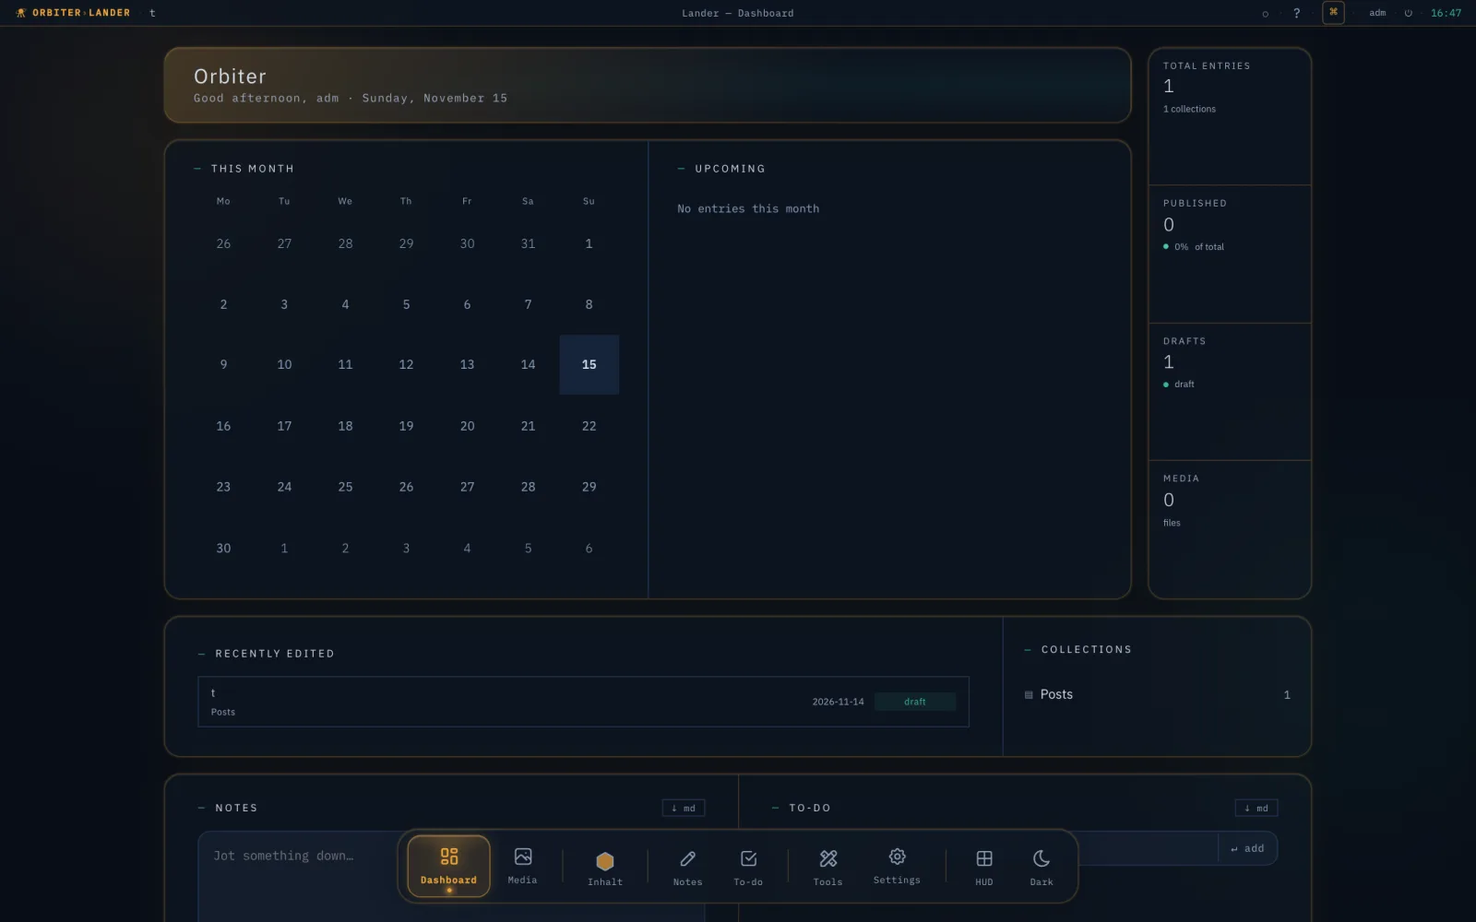
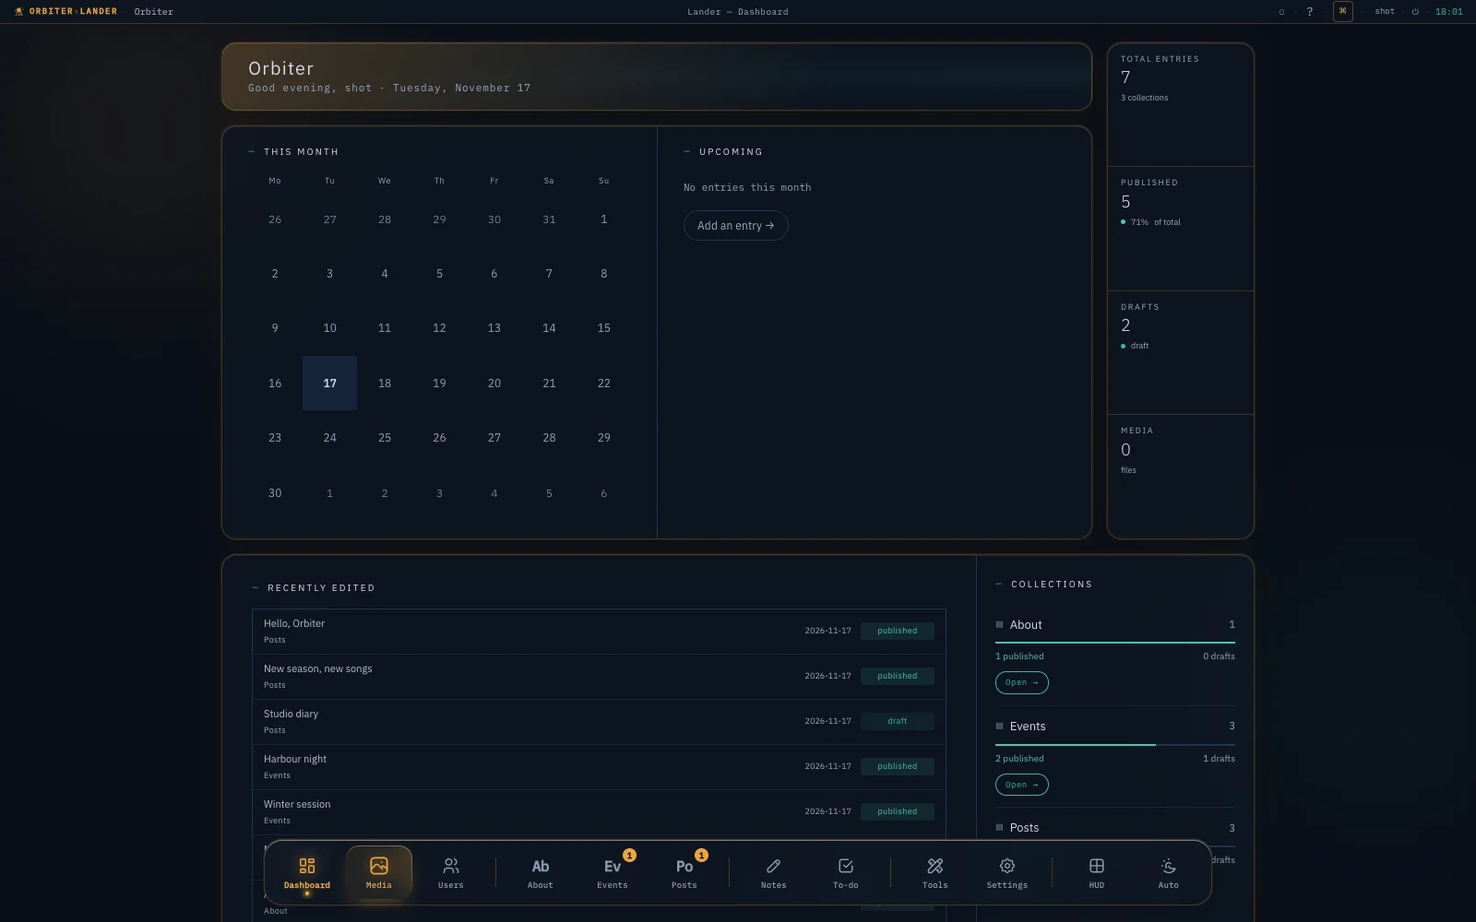
docs: README changelog mirrors orbiter.sh from admin 0.3.81, new Lander screenshot

diff --git a/README.md b/README.md
@@ -1289,6 +1289,200 @@ The admin ships with **English** and **German**. To add a locale, add translatio
 
 ## Changelog
 
+> The full, current changelog lives on **[orbiter.sh/changelog](https://orbiter.sh/changelog)**. Entries from admin 0.3.81 on are mirrored here.
+
+### Nov 2026 · admin@0.3.110 · lander@0.7.4 — Admin on phones and tablets, and a faster dock
+
+- **Dock labels and drawers** — on touch devices every dock item shows its name. A drawer opens as a floating glass panel above the dock (like Notes and To-do) with a close button; tapping outside closes it.
+- **Lists on a phone** — one main action per row plus a “⋯” menu (edit, duplicate, trash). Swipe left for the menu, swipe right to publish or unpublish (asks first). Slug and repeated names stay out of the card; filter chips scroll in one line.
+- **Editor** — the floating save button no longer covers the last field, the toolbar fades out where it scrolls, a pulsing dot shows unsaved changes, and *Preview* opens the site in a sheet.
+- **Touch targets** — buttons, chips, fields and calendar days are at least 40–44 px high on touch screens; forms use a calmer sans-serif instead of monospace.
+- **Draft badges** — the dock shows how many drafts a collection or drawer holds. Empty lists get a call to action, loading lists a shimmer.
+- **Lander** — the admin is German by default (switch under Settings → Admin language). Update with one click in Settings → Pod.
+
+### Nov 2026 · admin@0.3.110 · lander@0.7.3 — A dock that glides, and pages that open without a reload
+
+- **Sliding pill** — one glass pill follows the item under the cursor with a spotlight, and rests behind the active item with a slow aurora ring. It stays on a drawer while you reach into it, and returns only after a short grace period.
+- **Pages swap in place** — dock and status bar stay put, the old page stays until the new one is ready (thin progress bar), pages are prefetched on hover or touch and cached for five minutes. Editor, calendar, users and a few others still reload fully.
+- **Soft transitions** — a quick fade with a hint of blur and lift; full page loads use the browser’s view transitions where available. Off for “reduce motion”.
+- **Instant dock** — the dock is drawn from the last `/api/info` answer on the first frame and rebuilt only if something changed. The cache is cleared on sign-out.
+- **Versioned assets** — scripts and styles carry `?v=…` and may stay in the browser cache for a year; the version changes with every file change. Lander needs `mod_headers` and `mod_rewrite` for the long cache (it still works without).
+- **Recently visited** — the command palette (⌘K) lists the last pages you opened. Kept in this browser only.
+- **Security** — the page cache expires and notices a lost session instead of showing an empty page.
+
+### Nov 2026 · lander@0.7.0 — Lander for artists: music, video, preview, quick-create
+
+- **Audio and video uploads** — MP3, M4A, AAC, OGG, WAV, FLAC, MP4, WebM and MOV, served with range requests so Safari can play and seek. The upload limit is 40 MB for new installs.
+- **Preview** — a *Preview* button opens the real website page for an entry, drafts included while you are signed in (Settings meta `site.preview` and `site.url`).
+- **Quick-create** — the “new entry” dialog asks for the list columns (title, band, date, place) and can publish right away. **Copy with a new date** duplicates an entry and renames its slug.
+- **Relations** — a relation field can be single-choice (`multiple: false`), shown as a dropdown; list columns show the related title.
+- **Editor role** — editors see a short dock (no schema, users, build, import) and the server refuses those actions with 403. Plain-language save errors replace “Error”.
+- **Installable** — web-app manifest and icons, iOS meta tags and safe areas, so the admin can live on the home screen.
+
+### Nov 2026 · lander@0.6.1 — Lander: the dock copes with many collections
+
+- **"More" drawer** — with more than six ungrouped collections the extra ones move into a drawer instead of stretching the dock.
+- **Short dock names** — long titles are shortened to their first part (no more "…"); the full name stays in the tooltip.
+- **Never wider than the screen** — long drawers scroll. Group collections by topic in Settings → Navigation. Update with one click in Settings → Pod.
+
+### Nov 2026 · lander@0.6.0 — Lander: strict Content-Security-Policy for the admin
+
+- **Nonce on every script** — the admin pages are served through PHP with a one-time nonce and a strict policy. An injected `<script>` or `onerror=` handler cannot run, the same protection Orbiter got in 0.3.98.
+- **No inline handlers** — all 81 `onclick`-style handlers moved to `data-on-click`. Behaviour is unchanged. Works at the domain root and in a subfolder, in English and German.
+- **Earlier today (0.5.6):** the pod and its backups are written owner-only (600). If a page looks odd after updating, hard-reload once. [Docs →](https://orbiter.sh/docs/lander)
+
+### Nov 2026 · desktop@0.2.3 — Desktop app: no more admin / admin
+
+- **Random start password** — a new pod no longer gets `admin / admin`. The app creates a random password and shows it once after creating the pod.
+- **Loopback address** — the app talks to `127.0.0.1` instead of `localhost` (you sign in once again after the update, the address is a new site for the browser cookie).
+- **No browser permissions** — camera, microphone, location and notification requests are always denied.
+- Includes the current admin: enforced Content-Security-Policy, German interface, signed backups and Digi-ID sign-in. The macOS app is still unsigned (open it with right-click → Open).
+
+### Nov 2026 · admin@0.3.105 · lander@0.5.6 — Security: backups are owner-only
+
+- **Automatic backups were world-readable.** Since 0.3.96 (Orbiter) the automatic backup landed in a `backups/` folder next to the pod with default permissions (644). If that folder lies inside a directory the web server serves, the backup (password hashes, saved settings) could be downloaded by anyone who guessed the file name. Backups are now written with mode 600 in a 700 folder.
+- **What to do:** update, then check that `https://your-host/backups/` and old `*.pod` files are not reachable, and delete old backups from a served folder. If one was exposed, change the user passwords and any SMTP, API or FTP secrets stored in the pod. Set `ORBITER_BACKUP_DIR` to a folder outside the web root for good measure.
+- **Lander** also writes the pod and its backups owner-only (600), so a host that ignores `data/.htaccess` does not expose them. Lander's `data/.htaccess` already blocked the folder on Apache.
+
+### Nov 2026 · admin@0.3.103 · lander@0.5.5 — Autosave for every field
+
+- The editor already saved the title and the text two seconds after typing. Now **all other fields** (text fields, dates, switches, dropdowns) autosave the same way, so a notice or a short entry no longer needs a manual save.
+- Autosave keeps the entry's current status: a *published* entry goes live with the change (after the short public cache), a draft stays a draft.
+
+### Nov 2026 · admin@0.3.102 · lander@0.5.4 — Dock: shorter German labels and your own order
+
+- **Shorter dock labels** in German (Start, Nutzer, To-dos, Setup, Auto …), so the dock fits more items.
+- **Own order for collections** — the setting `nav.order` (a list of collection IDs) decides the order in the dock and the sidebar; collections not listed follow after. Set it with `PUT /api/meta` or in the pod.
+
+### Nov 2026 · admin@0.3.101 · lander@0.5.1 — Fix: Account page (2FA, Digi-ID) did nothing after in-app navigation
+
+- Opening **Account** through the dock or sidebar swapped the page in place, so its scripts did not run: the 2FA card stayed on “Loading…” and “Link an address” did nothing until a hard refresh. The page now loads normally.
+
+### Nov 2026 · lander@0.5.0 · admin@0.3.100 — Digi-ID sign-in in Lander
+
+- **Digi-ID for Lander** — link a DigiByte address under Account, then scan the QR code on the login page. Same contract as Orbiter 0.3.99. Needs PHP `gmp` or `bcmath` (the signature check is done in PHP, no extra library to install).
+- **Fix (admin 0.3.100, Lander)** — the sign-in request now sends a JSON body: some hosts and proxies answer a body-less POST with 403. [Docs →](https://orbiter.sh/docs/lander)
+
+### Nov 2026 · admin@0.3.100 — Sign in with Digi-ID (DigiByte wallet)
+
+- **Passwordless sign-in** — link a DigiByte address under Account → Digi-ID, then scan the QR code on the login page with a Digi-ID wallet. The password login stays.
+- **Bound to your domain** — the wallet signs a one-time URI that contains the site address; challenges expire after five minutes and work once. Linking or removing an address needs the password. [Docs →](https://orbiter.sh/docs/security)
+- Needs a public HTTPS address (not `localhost` or the desktop app). Legacy `D…` addresses.
+
+### Nov 2026 · lander@0.4.0 — Lander: webhooks and build trigger
+
+- **Rebuild on publish** — a build webhook (Settings → Build) is called whenever an entry is published, so a static Astro site on Netlify, Vercel or GitHub Actions rebuilds itself.
+- **Signed webhooks** — publish and delete events with an HMAC-SHA256 signature, a log of the last 50 deliveries and a test button. Same contract as Orbiter. [Docs →](https://orbiter.sh/docs/lander)
+
+### Nov 2026 · lander@0.3.3 — Lander: two-factor sign-in (TOTP)
+
+- **2FA for Lander** — Settings → Security. Works with Google Authenticator, 1Password and Aegis; eight one-time recovery codes; a code cannot be replayed; wrong codes are throttled per account.
+- Same format as Orbiter, so an Orbiter pod with 2FA users can move to Lander (before, Lander refused to sign these accounts in). Install it with **Update now**.
+
+### Nov 2026 · admin@0.3.98 — Security: strict Content-Security-Policy enforced
+
+- **Scripts need a nonce** — the admin now blocks every script that is not part of its own pages. An injected `<script>` or `onerror=` handler in content cannot run, even if it slipped past escaping.
+- **No inline handlers** — all 95 `onclick="…"` style handlers are replaced by `data-on-click` attributes handled by a small dispatcher (no `eval`). Behaviour is unchanged.
+- Custom admin pages that still use inline handlers: switch to `data-on-…`, or set `ORBITER_CSP=report` to go back to report-only. [Docs →](https://orbiter.sh/docs/security)
+
+### Nov 2026 · admin@0.3.97 · lander@0.3.2 — German admin interface
+
+- **Admin language DE** — Settings → General → Admin language now switches the whole interface to German: navigation, dashboard, entries, editor, media, users, settings, import and analytics (about 600 labels and hints). Anything not translated yet stays English.
+- The choice is kept per browser. The strings live in `i18n-de.js`; your own content, the editor text and form fields are never touched. More languages can be added the same way.
+- Lander 0.3.2 gets the same German interface. It is the first release installed with the signed one-click update.
+
+### Nov 2026 · lander@0.3.1 — Lander: signed one-click update
+
+- **Update now** — the Lander admin installs a newer release with one click, from the dashboard hint or Settings → Pod.
+- **Signed releases** — every release ZIP carries an Ed25519 signature that Lander checks before it writes a file. A tampered download is refused and nothing changes.
+- **Rollback copy** — the pod and the current code are saved to `data/update-rollback/` first. Config, `data/`, media and the subfolder paths stay as they are.
+- Needs the PHP `zip` and `sodium` extensions; otherwise the admin says why and you replace the files by hand. `update_check => false` switches it off. [Docs →](https://orbiter.sh/docs/lander)
+
+### Nov 2026 · lander@0.3.0 — Lander 0.3: users, installer, subfolders, backups, image sizes
+
+- **Installer** — open `install.php` once; it detects a subfolder or domain root, writes the config, creates the first admin and deletes itself.
+- **Subfolder or subdomain** — `example.at/lander/` works as well as `redaktion.example.at`.
+- **Users** — admins add editors and admins, reset passwords and delete accounts.
+- **Backup and restore** — weekly automatic backups, SQL file or ZIP with media, restore with validation.
+- **Image sizes** — `?w`, `?ar` and `?fmt` variants with a cache; public `/api/public/media/<id>`.
+- **Inbox** visible in the menu, a short public cache (10 s by default) and an update hint. [Lander →](https://orbiter.sh/lander)
+
+### Nov 2026 · admin@0.3.96 · core@0.3.22 — Automatic backups, pod size watch, media out of the pod, stronger password hashing
+
+- **Automatic backups** — the pod is copied to a `backups/` folder every 7 days (keeps four), plus *Back up now*. Configurable with `ORBITER_BACKUP_DAYS`, `_KEEP`, `_DIR`. [Docs →](https://orbiter.sh/docs/backup)
+- **Pod size watch** — Settings → Pod shows the file size and the media inside it; the dashboard warns above `ORBITER_POD_WARN_MB` (default 60) or when no backup exists.
+- **Move media out of the pod** — with a media backend set (local folder, S3, GitHub), one button moves the files out and shrinks the pod. A file that fails stays where it is.
+- **Stronger password hashing** — scrypt with a higher cost, stored with the hash; old hashes keep working and are upgraded at the next sign-in. [Docs →](https://orbiter.sh/docs/security)
+
+### Nov 2026 · admin@0.3.95 — Backup and restore from Settings
+
+- **Download a backup** — Settings → Pod → *Download SQL file* gives you a consistent copy of the live pod (no sessions), and shows the current file size. [Docs →](https://orbiter.sh/docs/backup)
+- **Restore or move** — upload a `.pod`: it is checked first (SQLite, integrity, required tables, at least one admin), the current pod is kept as `<pod>.before-restore-…`, then swapped in. Works for moving to another server, and for pods from [Lander](https://orbiter.sh/lander).
+
+### Nov 2026 · admin@0.3.94 · integration@0.3.23 · mcp@0.1.6 — Lander for PHP hosting, security hardening, 10 themes and a tidier Settings page
+
+- **Lander** — the Orbiter admin on ordinary PHP hosting (PHP 8.1+, SQLite, no Node). Same SQL file (`.pod`), same Station interface, live read API for your site. [Lander →](https://orbiter.sh/lander) [Docs →](https://orbiter.sh/docs/lander)
+- **Security hardening** — user-supplied values are now escaped everywhere in the admin UI (closes stored-XSS paths), meta writes are limited to admins and size-capped, slugs and usernames are validated server-side, request bodies have a size limit, and GitHub Actions are pinned to commit SHAs. Dependencies updated (hono, nodemailer, fast-xml-parser, zod). Update to 0.3.92 or later.
+- **10 themes, font choice, custom colors** — a 5×2 palette, your own accent colors and a phone tab bar.
+- **UI zoom applies immediately**, and static files revalidate (`no-cache`) so a new admin version shows up without a hard reload.
+- **Station dock** — drawers are hexagons whose fill level shows how much is in them; the outline turns on hover.
+- **Settings in sections** — You, General, Content, Publishing and System, two balanced columns, collapsible cards (state is remembered), a jump bar and Expand/Collapse all. The page is less than half as long.
+
+### Oct 2026 · admin@0.3.88 · core@0.3.21 · mcp@0.1.5 · integration@0.3.22 · client@0.1.4 · cli@0.3.15 — Two-factor sign-in, signed webhooks, key limits, version diff and media usage
+
+- **2FA (TOTP)** — turn it on under Account with any authenticator app. Eight one-time recovery codes, codes can't be replayed, and an admin can reset a locked-out user. [Docs →](https://orbiter.sh/docs/security)
+- **Active sessions** — see every signed-in device (browser, IP, time) and sign out one or all others.
+- **API key limits** — restrict a key to collections, give it an expiry date or a requests-per-minute limit. Applies to the REST API and MCP. A new dialog replaces the prompt chain.
+- **Editor layout** — custom fields now live in a collapsible “Details” card in the main column (grouped, two per row, long inputs full width; remembers open/closed per collection) instead of small boxes in the sidebar, so the body stays the main content. Collections without a body field drop the block-editing tools. Also fixed: validation errors on publish were never shown, the long dock popups in Station mode (many collections / tools) now scroll instead of running off the screen, and the Schema page can be scrolled in Station mode again.
+- **Webhook recipes** — tested receiver plus copy-paste handlers: Slack/Telegram on review, IndexNow, Cloudflare purge, Mastodon. [Docs →](https://orbiter.sh/docs/webhook-recipes)
+- **AI translation of missing locales** — one click in the editor creates the missing language versions as drafts (never overwrites, never publishes). [Docs →](https://orbiter.sh/docs/i18n)
+- **Image variants + focal point** — `/orbiter/media/<id>?w=800&fmt=webp&ar=16:9` serves a resized, re-encoded or cropped version; crops keep the focal point you set in the media library. Bounded and cached. [Docs →](https://orbiter.sh/docs/media)
+- **Review workflow** — optional. Editors submit entries for review; admins and the new *reviewer* role approve or request changes. Enforced on every publishing route. [Docs →](https://orbiter.sh/docs/permissions#review)
+- **Preview links** — the editor's Preview button now uses a one-hour token bound to that entry instead of the master preview token (which also fixes previews for editors, who only got a masked token before).
+- **Version diff** — see field by field what a restore would change. Restoring now keeps the content it replaces, so a restore can be undone (previously the replaced content was lost, and the newest snapshot couldn't be restored at all).
+- **Media usage** — each file shows where it is used; filter *Unused* files and *Broken refs*; deleting a file that is in use warns first.
+- **Signed webhooks** — HMAC-SHA256 signatures, retries (5 s, 30 s, 5 min) and a delivery log, managed in Settings. Webhook URLs are now admin-only (editors could previously set them). [Docs →](https://orbiter.sh/docs/webhooks)
+
+### Oct 2026 · admin@0.3.87 · core@0.3.20 · mcp@0.1.4 · cli@0.3.14 — Security check, encrypted secrets, draft-only agent keys, Terminal theme
+
+- **`orbiter doctor` + dashboard card** — flags a pod tracked by git, plaintext credentials, an open Content API and more, with the fix next to each finding. [Docs →](https://orbiter.sh/docs/security)
+- **Encrypted secrets** — set `ORBITER_SECRET` and stored FTP/SMTP/AI/GitHub/S3 credentials are encrypted at rest (AES-256-GCM). Opt-in; nothing changes without it.
+- **Draft-only keys for agents** — an API key can be allowed to create and edit *drafts* over MCP. It can never publish or touch live entries.
+- **Terminal theme** — a fourth palette: amber phosphor on near-black, with a warm paper light variant.
+- **Admin polish** — Settings style cards show their active state, the style default matches the app, leaving the XFCE dock reloads cleanly, visible keyboard focus, and reduced-motion support.
+
+### Oct 2026 · admin@0.3.86 · core@0.3.19 · integration@0.3.21 · mcp@0.1.3 — Security follow-up: uploaded files, URL imports, login limits, and what gets pushed to GitHub
+
+- **GitHub push no longer ships secrets** — the GitHub push feature committed the whole `.pod`, including live session tokens, password hashes and stored credentials (FTP, SMTP, AI and GitHub tokens). It now pushes a scrubbed copy. If you pushed before, rotate those credentials and check your repo history.
+- **Uploaded files can't run script** — media is served with `nosniff` and a sandboxing CSP, and anything that isn't an image, video, audio or PDF is forced to download. Applies to the admin and the public `/orbiter/media` route.
+- **Server-side request forgery** — importing or linking media by URL could be pointed at internal addresses (localhost, private networks, cloud metadata). Private and reserved targets are now blocked, redirects re-checked, downloads capped at 50 MB. Set `ORBITER_ALLOW_PRIVATE_FETCH=1` if you need to import from your LAN in development.
+- **Login rate limit** — it trusted a client-supplied `X-Forwarded-For` header, so it could be bypassed. The header is now only honoured when the connection comes from a reverse proxy on a private address.
+- **Restricted editors** — AI suggestions, the collection list/detail, `/api/info` and the quality report no longer expose collections an editor isn't allowed to see. Form-builder configs are admin-only.
+- **Content API drafts** — with the API enabled but no token set, `?status=draft` on `/orbiter/api/[collection]` returned unpublished entries to anyone. Drafts now require a configured, matching token.
+- **API token hashed** — the optional single `api.token` is now stored as a SHA-256 hash like API keys (existing plaintext values keep working and migrate on first use).
+- **Desktop app** — the embedded server only listens on loopback (it was reachable from your LAN), the window is sandboxed, only http(s) links are handed to the OS, and navigation away from the local admin is blocked.
+- **Smaller fixes** — CSV export works again and neutralises spreadsheet formulas, the login no longer reveals which usernames exist through timing, WordPress media import is covered by the same SSRF protection, and `/health` no longer exposes the pod path.
+- **Sessions and public endpoints** — changing a password signs out all other sessions. The public form and analytics endpoints are rate-limited and size-capped, and notification mails are capped. The Content API token is compared in constant time.
+
+### Oct 2026 · admin@0.3.85 · core@0.3.18 · mcp@0.1.2 · client@0.1.3 · integration@0.3.20 · cli@0.3.13 — Security hardening pass: 3 privately-disclosed bugs fixed, full-repo audit, 0 known dependency vulnerabilities
+
+- **Stored XSS** — unescaped field names/IPs in the Inbox, unescaped media filenames and analytics paths from fully unauthenticated endpoints, and the same pattern in `apps/demo`'s public post/page/event pages. Fixed with consistent escaping (and DOMPurify on the demo frontend) everywhere user- or visitor-supplied text reaches `innerHTML`.
+- **Collection permission bypass** — an editor restricted to specific collections could still reach draft content via the singleton endpoint, the terminal CSV/JSON export, search/calendar widgets, comments, and edit-locks. All now enforce the same `requireCollectionAccess` check as the main entry routes. See the new [permissions docs](https://orbiter.sh/docs/permissions).
+- **Path traversal** — the local media backend's `folder` parameter could write outside the configured media directory; the GitHub and S3 backends had the same unvalidated join. All three now resolve and reject anything that would escape the configured root.
+- **Plaintext API keys** — Bearer tokens for the Public Content API and MCP server were stored and compared in plaintext, inside a `.pod` file that Orbiter's own `orbiter init` template commits to git by design. Now hashed (SHA-256, constant-time compare), with transparent migration for already-issued keys.
+- **Missing/inverted access checks** — `api-keys` management, schema field rename/delete, and the embeddable-widget endpoint (`/api/widget/:collection` — inverted logic made it allow-by-default instead of deny-by-default like every other API gate) each had a broken or missing permission check. All fixed.
+- **Dependency audit** — `npm audit` went from 40 vulnerabilities to 0: removed an unused, outdated `electron-builder` devDependency pulling in most of them on its own, bumped nodemailer/sharp/adm-zip/electron to patched versions, and — the big one — **Astro 5 → 7** and **@astrojs/node 9 → 11** across `apps/demo`, `apps/landing`, and the `orbiter init` scaffold template, closing a critical RCE in Astro's AVIF image optimization.
+- **Process** — new [SECURITY.md](https://github.com/aeon022/orbiter/security/policy), GitHub private vulnerability reporting and Dependabot security updates turned on for the repo, and a weekly `npm audit` CI check.
+
+### Aug 2026 · mcp@0.1.0 · admin@0.3.81 — MCP server for AI agents, Public Content API, JSON-LD, API keys
+
+- **`@a83/orbiter-mcp`** — new MCP server package. `list_collections`, `get_entries`, `get_entry`, `search_content` tools for Claude Desktop and other MCP clients. stdio for local trusted access, `--http` for remote (same auth as the Public Content API).
+- **Public Content API** — `/api/public/[collection]` read-only JSON endpoints, opt-in per collection, CORS enabled.
+- **API keys** — generate/revoke Bearer tokens in Settings, optional enforcement on the Public Content API and MCP HTTP transport, hit counters and last-used tracking.
+- **JSON-LD / schema.org** — `BlogPosting` and `WebSite` structured data on published HTML, both themes.
+- **OpenAPI spec + API discovery** — auto-generated spec and a discovery endpoint listing available collections and auth requirements.
+- **Admin panel routing fix** — clean extensionless URLs (`/login`, `/dashboard`, etc.) now redirect correctly.
+
 ### June 2026 · admin@0.3.80 / integration@0.3.18 / cli@0.3.10 — Public Content API, JSON-LD, API Keys, Agent Analytics
 
 **Public Content API**
